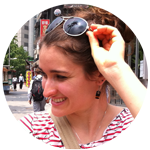
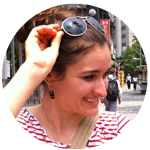
Add flip click event for biopic

diff --git a/js/resumeBuilder.js b/js/resumeBuilder.js
@@ -25,13 +25,7 @@ var bio = {
         "MailChimp",
         "Photoshop",
         "InDesign",
-        "Illustrator",
-        "Microsoft Office",
-        "Mac OSX",
-        "Windows",
-        "Time Management",
-        "Communication",
-        "Organisation"
+        "Illustrator"
     ]
 }
 
@@ -66,6 +60,11 @@ bio.display = function() {
             }
         }
     }
+
+    //Add contact details and zocial icons to footer area
+    $("#footerContacts").append("<div class='contact-item'><span class='fontawesome-envelope'></span>" + formattedEmail + "</div>");
+    $("#footerContacts").append("<div class='contact-item'><span class='fontawesome-desktop'></span>" + formattedWebsite + "</div>");
+    $("#footerContacts").append("<div class='contact-item'><span class='fontawesome-github'></span>" + formattedGitHub + "</div>");
 }
 
 bio.display();
@@ -286,6 +285,10 @@ education.display = function() {
 
 education.display();
 
+/*****************
+    FANCY BITS
+*****************/
+
 //Log Clicks
 $(document).click(function(loc) {
     var x = loc.pageX;
@@ -344,4 +347,9 @@ $(document).ready(function(){
 	        'scrollTop': $target.offset().top
 	    }, 500, 'swing');
 	});
+});
+
+//Flip biopic on click
+$(".biopic").click(function() {
+    $(".biopic").toggleClass("flipped" , "addOrRemove");
 });

diff --git a/css/style.css b/css/style.css
@@ -9,7 +9,12 @@
   overflow: auto;
 }
 
-:focus {
+* {
+  outline: none;
+}
+
+:focus,
+a:focus {
   outline: none;
 }
 
@@ -61,6 +66,20 @@
   margin: 0 auto;
   padding: 10px;
   width: 200px;
+}
+
+.biopic:hover {
+  opacity: .9;
+  cursor: pointer;
+}
+
+.flipped {
+  -moz-transform: scaleY(-1);
+  -o-transform: scaleY(-1);
+  -webkit-transform: scaleY(-1);
+  transform: scaleY(-1);
+  filter: FlipV;
+  -ms-filter: "FlipV";
 }
 
 .welcome-message {
